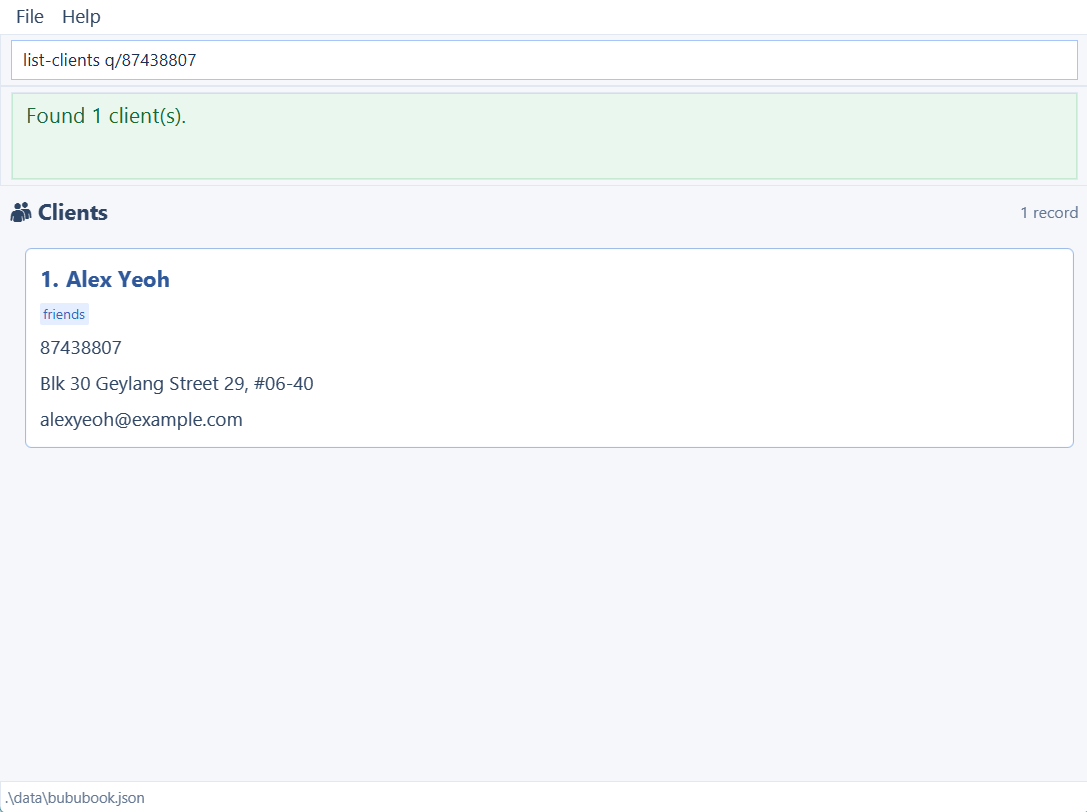
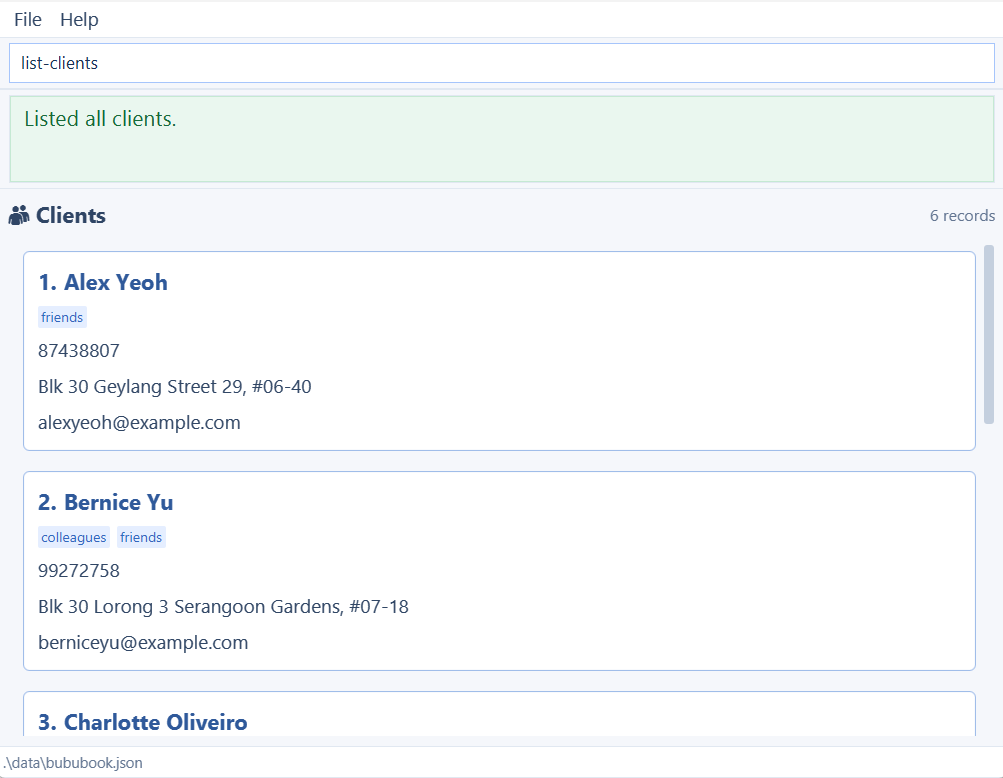
Update data recovery guidance and docs

diff --git a/src/main/java/seedu/address/logic/LogicManager.java b/src/main/java/seedu/address/logic/LogicManager.java
@@ -41,7 +41,7 @@ import seedu.address.storage.Storage;
  */
 public class LogicManager implements Logic {
     public static final String MESSAGE_CORRUPTED_RECORDS =
-            "Unable to verify existing records. Please contact support.";
+            "Unable to load saved records. See the User Guide for backup restoration steps.";
     public static final String MESSAGE_UNABLE_TO_SAVE_PET = "Unable to save a pet. Please try again.";
     //@@author anderschow
     public static final String MESSAGE_CLIENT_SAVE_FAILURE =

diff --git a/docs/UserGuide.md b/docs/UserGuide.md
@@ -34,7 +34,7 @@ BuBu helps **freelance pet groomers** keep track of clients, their pets and groo
     * [Clear all entries](#clearing-all-entries-clear)
     * [Exit BuBu](#exiting-the-program-exit)
     * [Saving the data](#saving-the-data)
-    * [Data files and backups](#data-files-and-supported-backups)
+    * [Data files, backups and recovery](#data-files-backups-and-recovery)
 * [FAQ](#faq)
 * [Known issues](#known-issues)
 * [Command summary](#command-summary)
@@ -46,11 +46,11 @@ BuBu helps **freelance pet groomers** keep track of clients, their pets and groo
 1. Install Java 25. On a Mac, follow the [macOS Java installation guide](https://se-education.org/guides/tutorials/javaInstallationMac.html).
 2. Download `bubu.jar` from the [BuBu releases page](https://github.com/AY2627S1-CS2103T-W08-2/tp/releases) and put it in a folder where you can save files.
 3. Open a terminal in that folder and run `java -jar bubu.jar`. Use the same folder each time so BuBu can find your records.
-4. On a fresh launch, try `list-clients q/87438807` and press <kbd>Enter</kbd>. With the sample records, the feedback reads `Found 1 client(s).` and the list shows Alex Yeoh. Type `list-clients` to see everyone again.
+4. Type `list-clients` in the command box and press <kbd>Enter</kbd>. BuBu displays `Listed all clients.` and shows the client list. On a fresh launch, sample clients are provided so you can explore the app.
 
-   ![Alex Yeoh’s client card beneath the feedback “Found 1 client(s).”](images/Ui.png)
+   ![Client list showing six records, with Alex Yeoh and Bernice Yu visible beneath the feedback “Listed all clients.”](images/Ui.png)
 
-   *Searching for 87438807 returns one matching client, Alex Yeoh.*
+   *The sample client list after running `list-clients`. Scroll down to view the remaining clients.*
 
 5. Enter a command in the command box and press <kbd>Enter</kbd>. BuBu shows feedback in the box below it.
    Try these commands to explore the app:
@@ -158,7 +158,7 @@ displayed, the deletion is rejected rather than applying the index to another li
 If BuBu rejects a command, your saved records stay as they were. Read the feedback below the command box, correct the input and press <kbd>Enter</kbd> to try again.
 
 If BuBu cannot load your saved records, follow the recovery instructions under
-[Data files and supported backups](#data-files-and-supported-backups). Help remains available while other valid commands are blocked.
+[Data files, backups and recovery](#data-files-backups-and-recovery). Help remains available while other valid commands are blocked.
 
 BuBu checks client phone and email uniqueness when it loads saved records. For example, client emails that differ only in domain capitalisation make the data file invalid. BuBu does not merge or delete these records automatically; preserve the file and restore a valid backup before restarting.
 An unrecognised command word reports an unknown-command error. Use the exact lowercase command words below.
@@ -783,7 +783,7 @@ clear
 #### Common issues
 
 * Storage error — the data file cannot be written, for example because of file or folder permissions.
-* `Unable to verify existing records. Please contact support.` — `clear` and other valid commands except `help` are
+* `Unable to load saved records. See the User Guide for backup restoration steps.` — `clear` and other valid commands except `help` are
   blocked because the data file was invalid at startup. Malformed or unrecognised commands report parsing errors first.
   Viewing help does not enable clearing the records.
 
@@ -813,7 +813,7 @@ exit
 
 #### Common issues
 
-* `Unable to verify existing records. Please contact support.` — valid commands except `help`, including `exit`, are
+* `Unable to load saved records. See the User Guide for backup restoration steps.` — valid commands except `help`, including `exit`, are
   blocked by the startup data-file error; close the window instead. Malformed or unrecognised commands report parsing
   errors first. Typed `help`, **Help → Help**, and <kbd>F1</kbd> remain available.
 
@@ -825,9 +825,9 @@ do not create or rewrite this file. Window preferences are saved separately in `
 
 If saving fails, BuBu restores the previous records in the open window and displays an error.
 If another window has changed the file, close and reopen BuBu before retrying; if another window is still saving,
-wait and retry as instructed. See [Data files and supported backups](#data-files-and-supported-backups) for file locations and recovery.
+wait and retry as instructed. See [Data files, backups and recovery](#data-files-backups-and-recovery) for file locations and recovery.
 
-### Data files and supported backups
+### Data files, backups and recovery
 
 By default, grooming records are saved in `data/bububook.json` relative to the terminal's working directory when
 BuBu is launched, with `clients`, `pets`, and `appointments` lists. Following the Quick start instructions makes
@@ -837,21 +837,36 @@ another folder can make BuBu use a different data file.
 Leave `data/bububook.json.lock` in place while BuBu is open. This file coordinates saves between windows;
 it may remain after the app closes, even though the lock is no longer held.
 
-Manage records using BuBu commands. BuBu does not support importing external JSON, merging data files, or manually
-editing saved records. You may copy or restore an unchanged backup of a file saved by BuBu while the app is closed.
-Every occurrence of an owner's phone number refers to the same client, including in completed appointments.
-Manually constructing records that give different people the same phone number is unsupported and can cause their
-records to be updated or deleted together; file validation does not detect every such inconsistency.
+Manage records using BuBu commands. Importing external JSON, merging data files and manually editing saved records
+are not supported. To back up or restore your records, copy the unchanged data file while BuBu is closed.
 
-<div markdown="span" class="alert alert-warning">:exclamation: **Caution:**
-Keep a backup of the data file. If BuBu detects that the file is invalid, it opens without displaying your records.
-Valid commands except `help` cannot execute and report `Unable to verify existing records. Please contact support.`
-to avoid overwriting your records. Malformed or unrecognised commands report their usual parsing errors first;
-these errors do not enable commands or make records writable.
-Typed `help`, **Help → Help**, and <kbd>F1</kbd> still display the command reference without saving records. List commands
-and `exit` remain blocked. Close the window, preserve the affected file, and restore an unchanged, valid BuBu backup
-while the app is closed before restarting, or contact support. Viewing help does not repair the file or remove the block.
-</div>
+#### Restoring your records from a backup
+
+If BuBu cannot read or validate your saved data, the window opens without your records. Valid commands other than
+`help` report `Unable to load saved records. See the User Guide for backup restoration steps.` BuBu blocks these commands to protect
+the existing file; an empty display does not mean your saved records have been deleted.
+
+**To restore a backup** (using the default file location):
+
+1. **Close every BuBu window using the window's close button.** The `exit` command is blocked in this state.
+2. **Open the folder you normally launch BuBu from**, then open its `data` subfolder. If you followed Quick start,
+   this is the folder containing `bubu.jar`.
+3. **Preserve the affected file first.** Copy `data/bububook.json` to a separate folder before replacing it.
+   Do not edit its contents. If you cannot copy it, stop; do not replace the file until you have preserved a copy.
+4. **Restore a known-good backup.** Copy an unchanged `bububook.json` that you previously backed up from a working
+   BuBu installation into the `data` subfolder, replacing the affected file. Ensure its name is exactly
+   `bububook.json`. Restoring it returns your records to the backup's state; later changes will not be included.
+5. **Restart from the same launch folder** using `java -jar bubu.jar`. Run `list-clients` and `list-pets` to check
+   the restored records. Use `list-appointments d/DD-MM-YYYY` with a date from your backup to check its bookings,
+   including completed appointments.
+
+**If you have no valid backup, or the error persists:** keep the affected file unchanged. BuBu has no built-in
+repair tool and does not provide a data-recovery service. You can try another known-good backup if one is available;
+otherwise, these steps cannot restore your records. Do not delete the file to make BuBu start with sample data;
+sample records do not restore your own records.
+
+You can still use `help`, **Help → Help**, or <kbd>F1</kbd> while loading is blocked. Help does not repair the file.
+Malformed commands may show syntax errors instead of the loading error; this does not mean the file has recovered.
 
 --------------------------------------------------------------------------------------------------------------------
 

diff --git a/docs/DeveloperGuide.md b/docs/DeveloperGuide.md
@@ -319,6 +319,7 @@ in [Command execution](#command-execution).
 
 
 #### Model API and data ownership
+{:.no_toc}
 
 `Model` defines the component API. `ModelManager` implements that API and owns separate `BubuBook` and `UserPrefs`
 containers initialized from the supplied data; immutable record objects can be shared with the source book.
@@ -332,8 +333,10 @@ The model has no dependency on the `Logic`, `UI`, or `Storage` components. Those
 the domain data.
 
 #### Records and identity
+{:.no_toc}
 
 ##### Clients
+{:.no_toc}
 
 Clients are represented as immutable `Client` records with a name, phone, email, address, and tags. A client is considered
 a duplicate when another client has the same phone number or email address. Email identity ignores case throughout
@@ -344,6 +347,7 @@ used by a different appointment owner snapshot (see
 [Historical appointment snapshots and linked-record consistency](#historical-appointment-snapshots-and-linked-record-consistency)).
 
 ##### Pets
+{:.no_toc}
 
 Pets are represented as immutable `Pet` records with a name, owner, species, optional breed, and grooming requirements.
 Each pet refers to its owning `Client`; when the book adds or replaces a pet, it resolves that owner to the matching
@@ -352,6 +356,7 @@ owner and letter case or leading, trailing, and repeated whitespace do not affec
 for identity comparisons; `PetName` retains the supplied spelling, and full pet equality compares all profile fields.
 
 ##### Appointments
+{:.no_toc}
 
 Appointments are represented as immutable records containing owner and pet snapshots, date, start and end times, and
 service. The date and start time identify a booking slot; full appointment equality includes all fields.
@@ -362,6 +367,7 @@ start to be strictly in the future in Singapore time. These checks are separate 
 historical appointments and their original participant snapshots to be loaded and retained.
 
 #### Validation and linked-record updates
+{:.no_toc}
 
 The model uses immutable value objects for field validation, with `Species` and `Service` represented as enums. For example,
 `AppointmentDate` validates a real calendar date, `StartTime` permits 08:00–19:30, and `EndTime` permits 08:30–20:00,
@@ -372,6 +378,7 @@ The model coordinates linked-record updates through `BubuBook`. The detailed app
 [Historical appointment snapshots and linked-record consistency](#historical-appointment-snapshots-and-linked-record-consistency).
 
 #### Bulk data replacement
+{:.no_toc}
 
 `BubuBook` stages and validates the complete replacement book in `resetData` before changing its live lists. The bulk setters
 have narrower responsibilities: `setClients` checks client uniqueness and resolves registered pet owners before
@@ -382,6 +389,7 @@ retains the supplied participant snapshots. The observable list instances remain
 UI views continue to receive changes (see [Loading data](#loading-data) for reconstruction from storage).
 
 #### Display views
+{:.no_toc}
 
 `ModelManager` maintains observable display views for clients, pets, and appointments by filtering and sorting the book's lists.
 Pets are ordered by owner name (case-insensitive), owner phone, and normalized pet name; appointments are ordered by
@@ -390,6 +398,7 @@ that sort remains active for subsequent list changes. Changing a filter updates 
 than replacing its backing list. Display ordering does not reorder the saved lists in `BubuBook`.
 
 #### Record relationships
+{:.no_toc}
 
 <div markdown="span" class="alert alert-info">:information_source: **Note:** These are complementary class diagrams. The overview above shows the model API, owned containers, and display views. Collection membership uses ordinary associations because immutable records can be shared with snapshots. The diagram below expands the record fields and participant relationships; an appointment's owner and pet are snapshots and may differ from the currently registered profiles. Association roles identify participant references, which are not repeated as attributes. Reading-direction markers are shown for the `stores` association labels.<br>
 
@@ -2187,7 +2196,7 @@ negative test, while restoring an unchanged backup is the supported recovery wor
    2. Test case: In the isolated test file, replace the contents with `{` and launch BuBu.
       Submit `list-pets` and a valid `add-pet` command.<br>
       Expected: The window opens without loaded records. Both commands report
-      `Unable to verify existing records. Please contact support.` The malformed file remains unchanged.
+      `Unable to load saved records. See the User Guide for backup restoration steps.` The malformed file remains unchanged.
       `help` works. Close the application using its window controls.
 
    3. Test case: Repeat step 2 with a zero-byte record file.<br>
